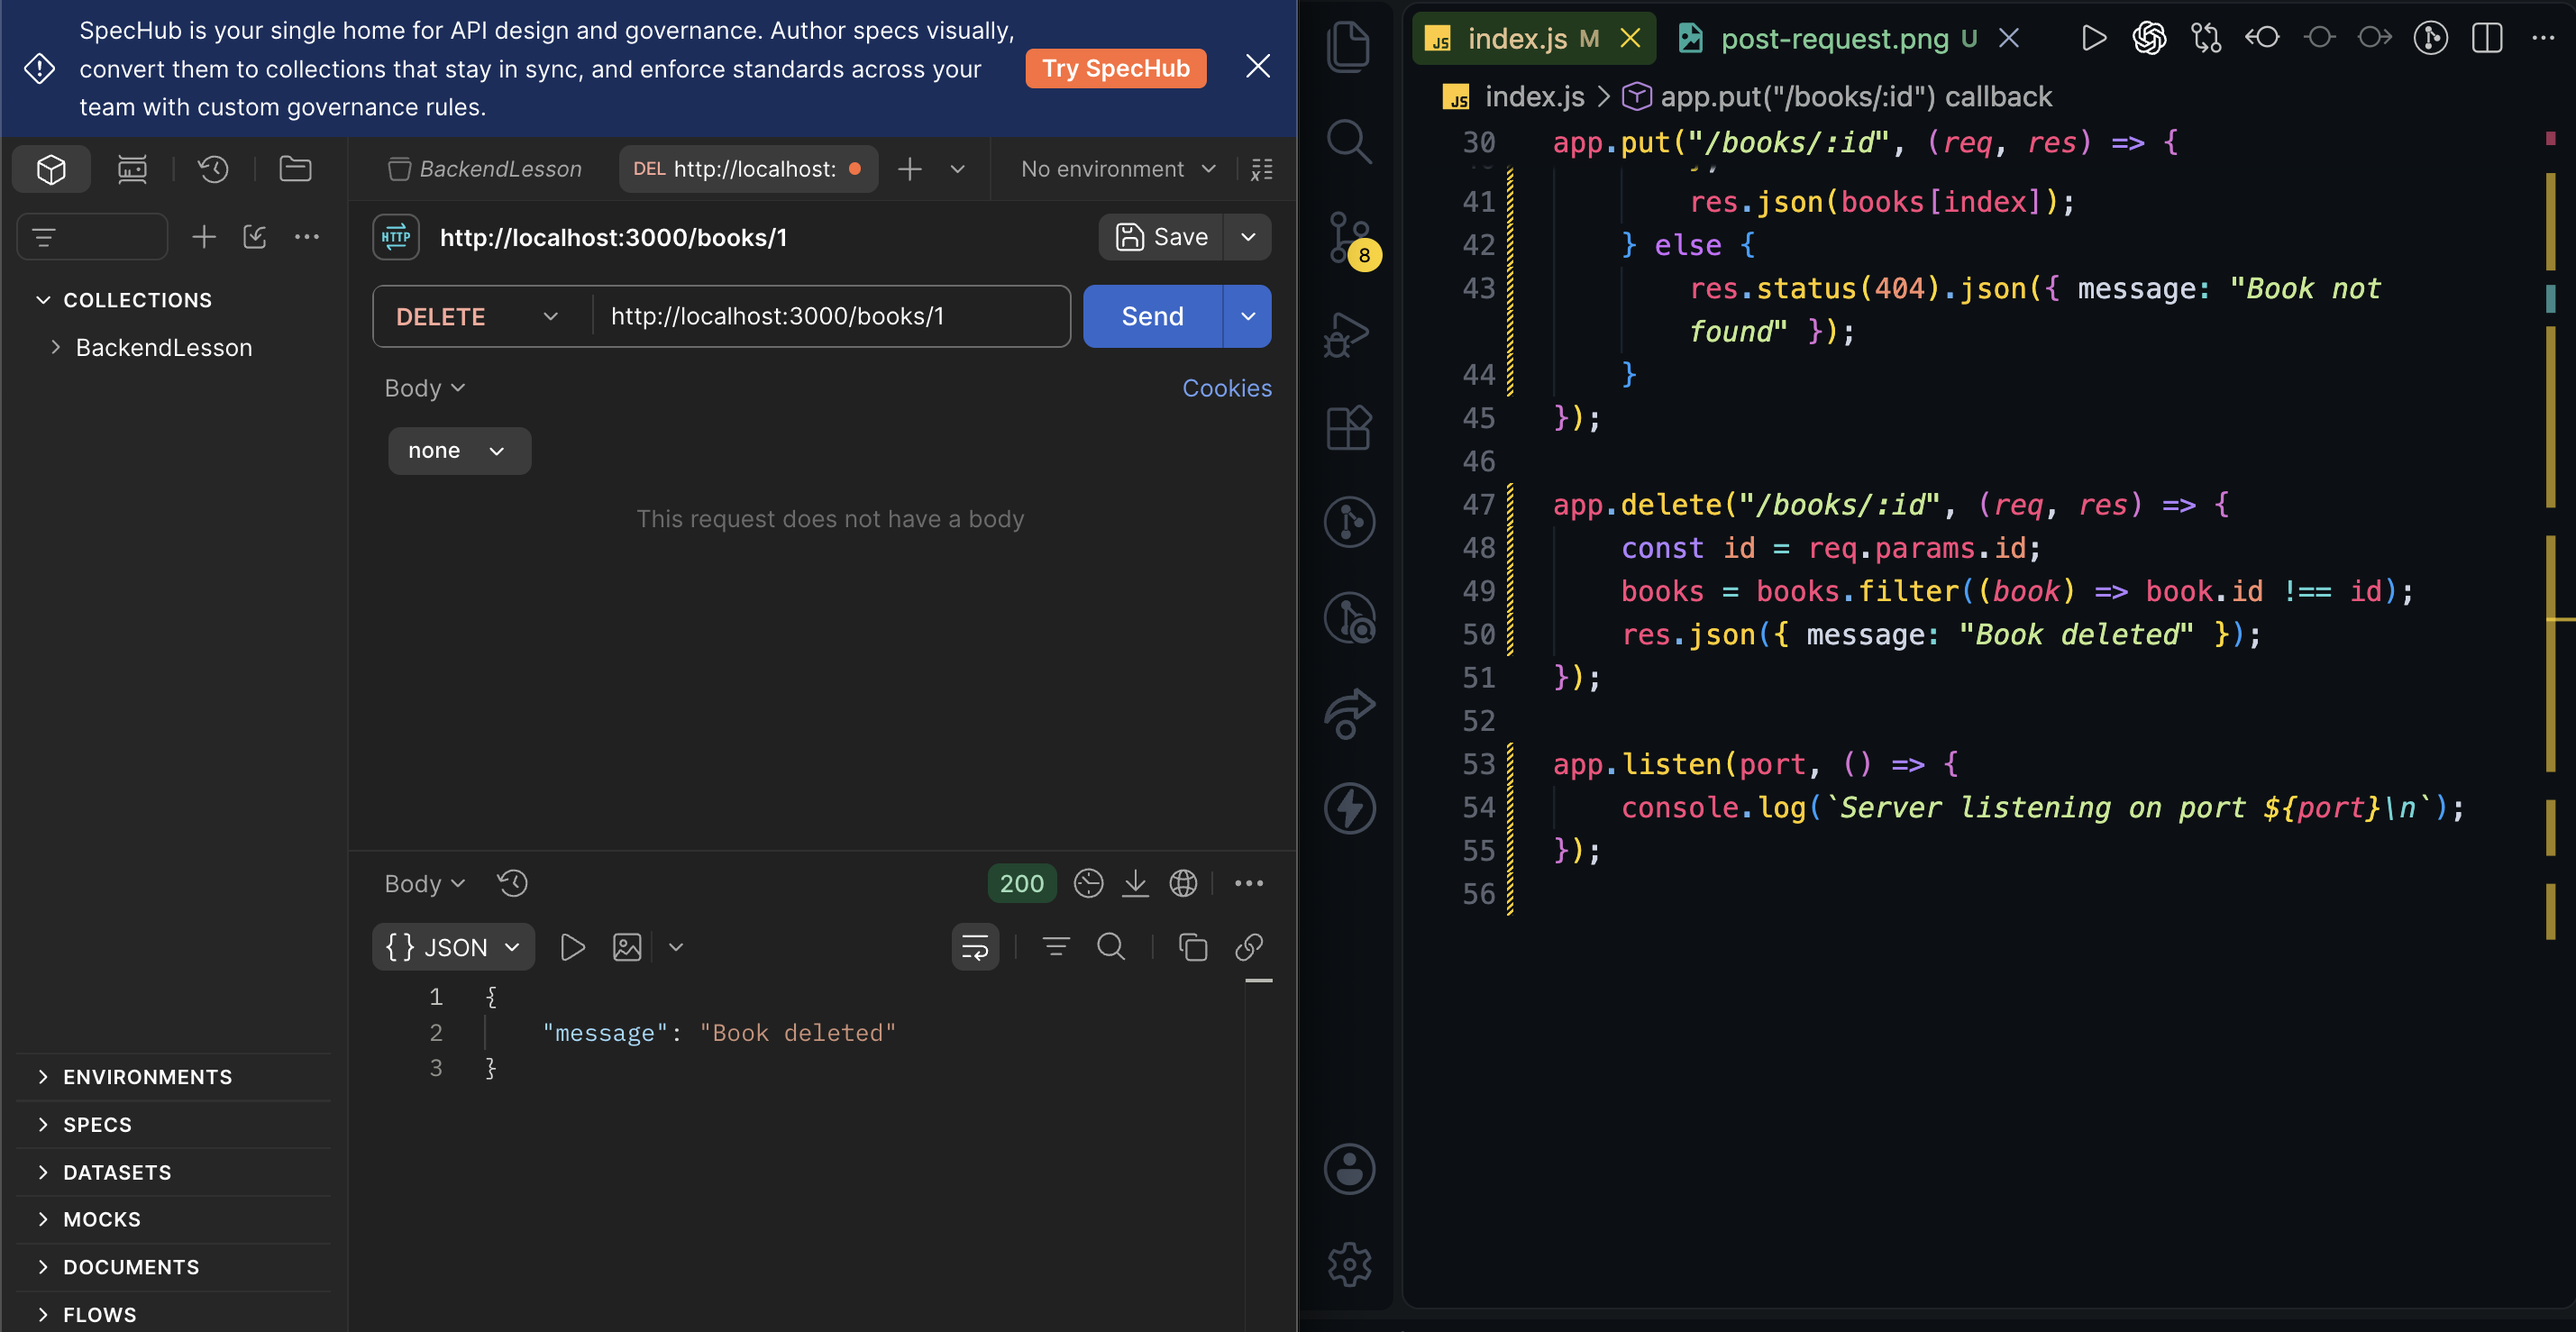
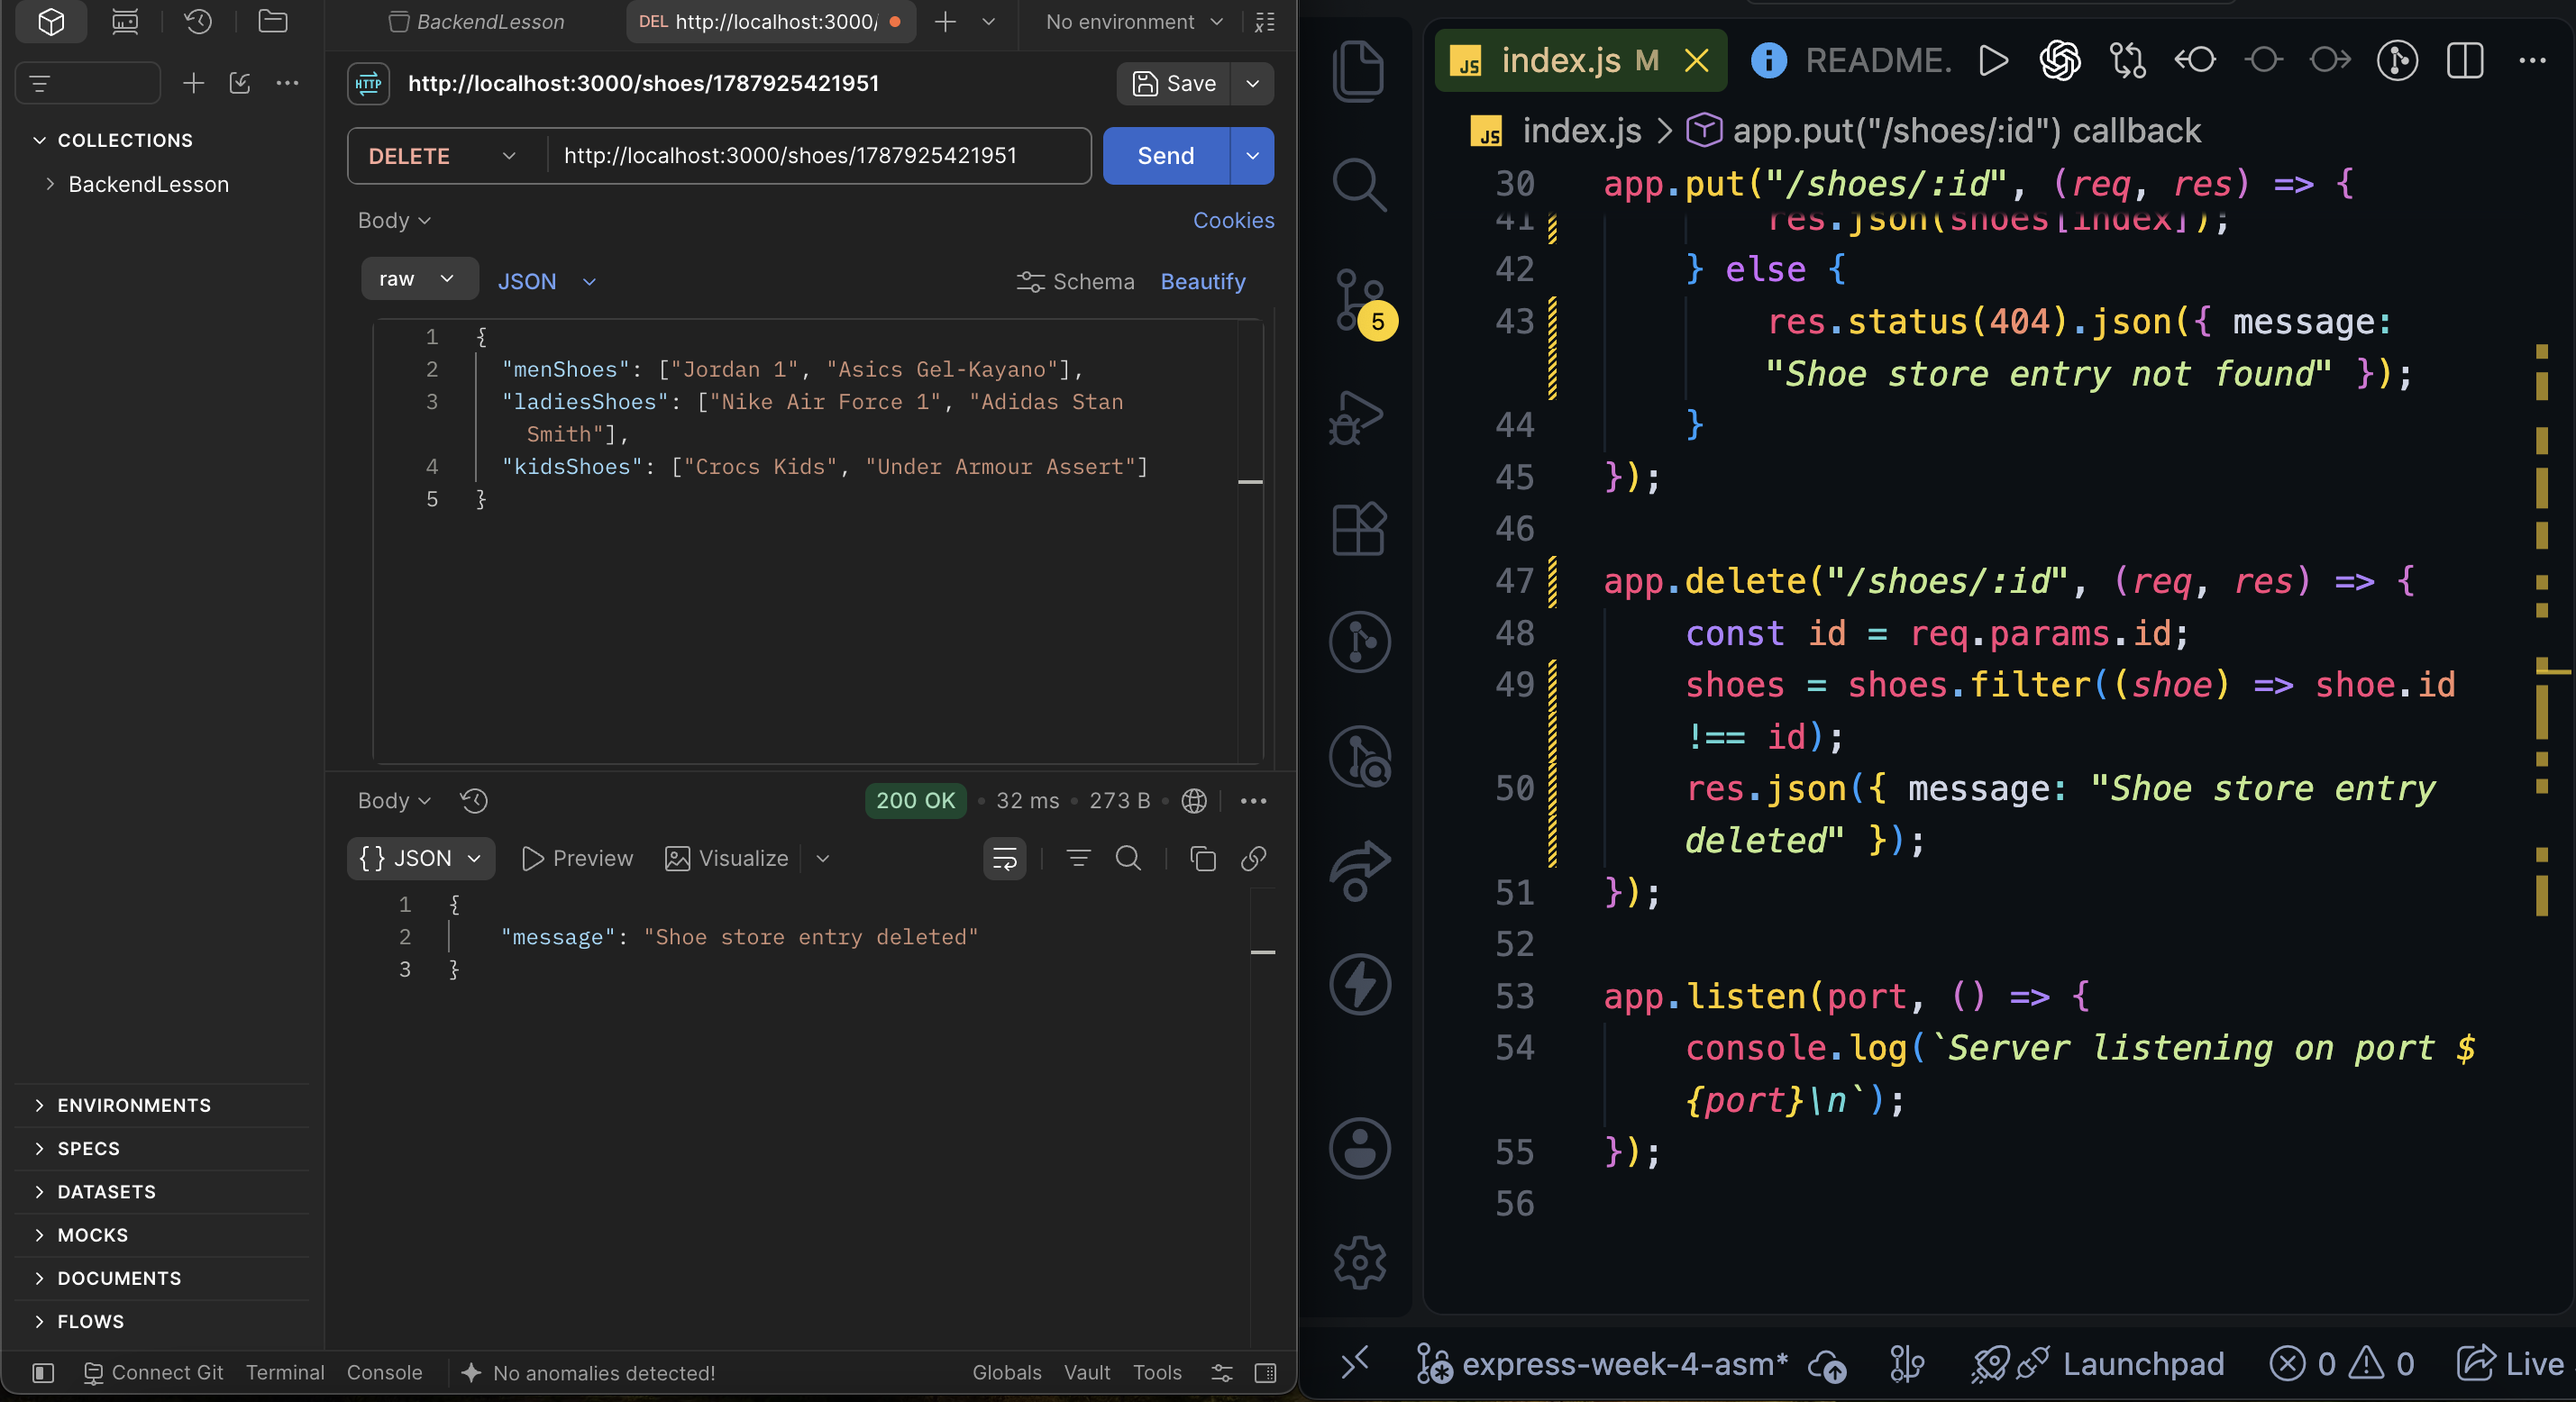
initial commit

diff --git a/index.js b/index.js
@@ -10,44 +10,44 @@ app.use((req, res, next) => {
     next();
 });
 
-let books = [];
+let shoes = [];
 
-app.get("/books", (req, res) => {
-    res.json(books);
+app.get("/shoes", (req, res) => {
+    res.json(shoes);
 });
 
-app.post("/books", (req, res) => {
-    const newBook = {
+app.post("/shoes", (req, res) => {
+    const newShoe = {
         id: Date.now().toString(),
-        title: req.body.title,
-        author: req.body.author,
-        description: req.body.description,
+        menShoes: req.body.menShoes,
+        ladiesShoes: req.body.ladiesShoes,
+        kidsShoes: req.body.kidsShoes,
     };
-    books.push(newBook);
-    res.status(201).json(newBook);
+    shoes.push(newShoe);
+    res.status(201).json(newShoe);
 });
 
-app.put("/books/:id", (req, res) => {
+app.put("/shoes/:id", (req, res) => {
     const id = req.params.id;
-    const index = books.findIndex((book) => book.id === id);
+    const index = shoes.findIndex((shoe) => shoe.id === id);
 
     if (index !== -1) {
-        books[index] = {
+        shoes[index] = {
             id: id,
-            title: req.body.title,
-            author: req.body.author,
-            description: req.body.description,
+            menShoes: req.body.menShoes,
+            ladiesShoes: req.body.ladiesShoes,
+            kidsShoes: req.body.kidsShoes,
         };
-        res.json(books[index]);
+        res.json(shoes[index]);
     } else {
-        res.status(404).json({ message: "Book not found" });
+        res.status(404).json({ message: "Shoe store entry not found" });
     }
 });
 
-app.delete("/books/:id", (req, res) => {
+app.delete("/shoes/:id", (req, res) => {
     const id = req.params.id;
-    books = books.filter((book) => book.id !== id);
-    res.json({ message: "Book deleted" });
+    shoes = shoes.filter((shoe) => shoe.id !== id);
+    res.json({ message: "Shoe store entry deleted" });
 });
 
 app.listen(port, () => {

diff --git a/README.md b/README.md
@@ -1,4 +1,4 @@
-# Screenshot of work (Node & Express Week 4 Exercise)
+# Screenshot of work (Node & Express Week 4 Assignment)
 
 ## GET request
 
@@ -10,7 +10,7 @@
 
 ## PUT request that returns 404
 
-![Screenshot of work](./screenshots/put-request-with-404.png)
+![Screenshot of work](./screenshots/put-request.png)
 
 ## DELETE request
 
